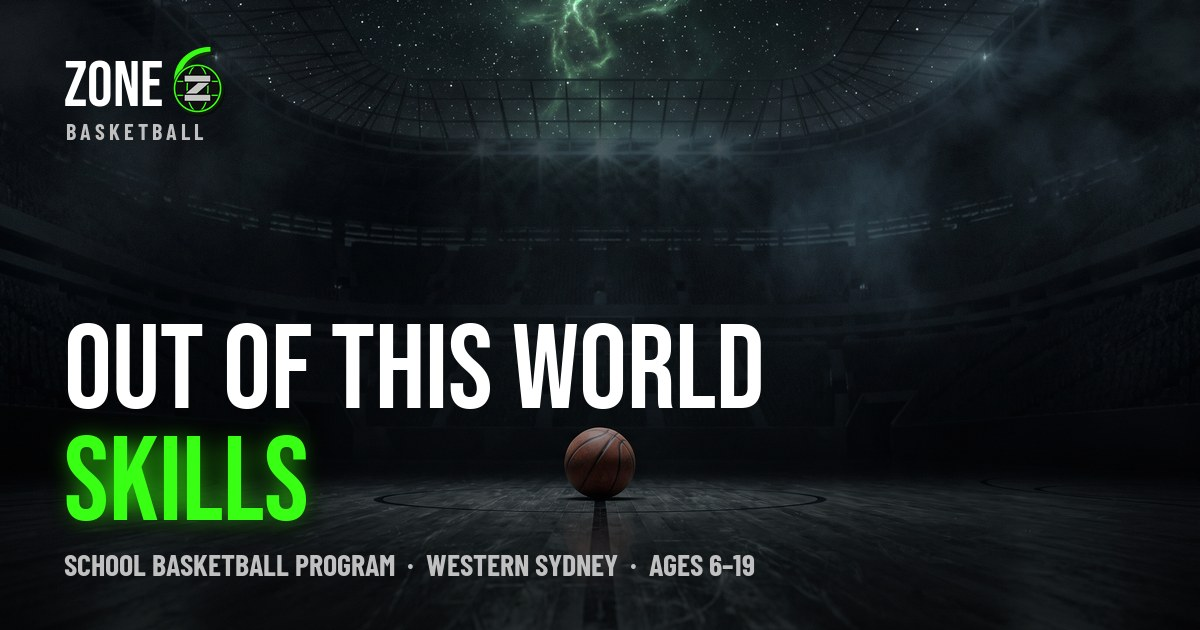
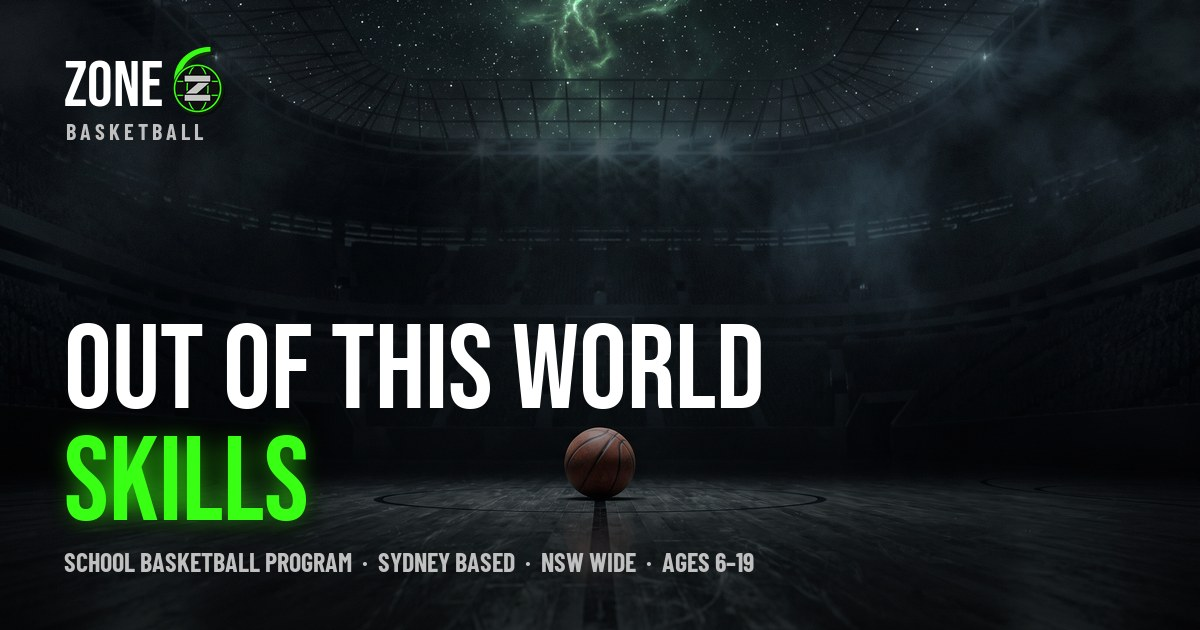
Bespoke card artwork, caps hero pitch, NSW-wide geography, filmstrip de-dupe
How To Get In cards now use unique Higgsfield artwork (floating gym,
comet ball, sun-flare hoop) instead of reused photos; hero pitch set in
condensed caps and tightened; geography corrected to Sydney based /
NSW wide across kicker, pitch, metas and share card; duplicate team
photo removed from the filmstrip (lives in Founder).

Changed region(s): [[0.0308, 0.8746, 0.6475, 0.9349]]

diff --git a/src/site/Schedule.jsx b/src/site/Schedule.jsx
@@ -3,17 +3,17 @@ import Badge from "../ds/Badge.jsx";
 import Card from "../ds/Card.jsx";
 import Button from "../ds/Button.jsx";
 import { setCta } from "../lib/scroll.js";
-import gumCoaching from "../assets/gum-coaching.jpg";
-import sideline from "../assets/sideline.jpg";
-import teamRedeyes from "../assets/team-redeyes.jpg";
+import cardSchools from "../assets/card-schools.jpg";
+import cardPlayers from "../assets/card-players.jpg";
+import cardHolidays from "../assets/card-holidays.jpg";
 
 // Schedule — how it works + where we play. Two paths: school programs and open sessions.
-// Each card leads with a real coaching photo fading into the card surface.
+// Each card leads with bespoke Zone6-universe artwork fading into the card surface.
 export default function Schedule({ onNav }) {
   const cards = [
-    { tag:"For Schools", emoji:"🏫", img:gumCoaching, pos:"50% 30%", title:"School Programs", body:"We run weekly basketball development inside your school — curriculum-aligned, fully coached, all equipment supplied. Term bookings now open.", cta:"Book a School Program", to:"register" },
-    { tag:"For Players", emoji:"🏀", img:sideline, pos:"50% 40%", title:"Open Sessions", body:"Weekend and after-school sessions for individual players. Drop into your age group, train with pros, and bring a friend.", cta:"Join a Session", to:"register" },
-    { tag:"School Holidays", emoji:"☀", img:teamRedeyes, pos:"50% 25%", title:"Holiday Camps", body:"Full-day camps across the holidays — skills, games, guest pros and a whole lot of energy. Spots are limited.", cta:"Reserve a Spot", to:"register" },
+    { tag:"For Schools", emoji:"🏫", img:cardSchools, pos:"50% 50%", title:"School Programs", body:"We run weekly basketball development inside your school — curriculum-aligned, fully coached, all equipment supplied. Term bookings now open.", cta:"Book a School Program", to:"register" },
+    { tag:"For Players", emoji:"🏀", img:cardPlayers, pos:"50% 50%", title:"Open Sessions", body:"Weekend and after-school sessions for individual players. Drop into your age group, train with pros, and bring a friend.", cta:"Join a Session", to:"register" },
+    { tag:"School Holidays", emoji:"☀", img:cardHolidays, pos:"50% 45%", title:"Holiday Camps", body:"Full-day camps across the holidays — skills, games, guest pros and a whole lot of energy. Spots are limited.", cta:"Reserve a Spot", to:"register" },
   ];
   return (
     <section id="schedule" style={{ padding:"76px 32px", scrollMarginTop:"80px" }}>
@@ -27,8 +27,8 @@ export default function Schedule({ onNav }) {
         <div style={{ display:"grid", gridTemplateColumns:"repeat(auto-fit, minmax(280px,1fr))", gap:24 }}>
           {cards.map((c) => (
             <Card key={c.title} interactive padding="0" style={{ display:"flex", flexDirection:"column", overflow:"hidden" }}>
-              <div style={{ position:"relative", height:158, flex:"none" }}>
-                <img src={c.img} alt={c.title} style={{ position:"absolute", inset:0, width:"100%", height:"100%",
+              <div style={{ position:"relative", height:172, flex:"none" }}>
+                <img src={c.img} alt="" aria-hidden="true" style={{ position:"absolute", inset:0, width:"100%", height:"100%",
                   objectFit:"cover", objectPosition:c.pos }} />
                 <div aria-hidden="true" style={{ position:"absolute", inset:0,
                   background:"linear-gradient(180deg, rgba(26,26,26,0.05) 35%, rgba(26,26,26,0.55) 75%, var(--surface-card) 100%)" }}></div>

diff --git a/index.html b/index.html
@@ -4,20 +4,20 @@
 <meta charset="utf-8">
 <meta name="viewport" content="width=device-width, initial-scale=1">
 <title>ZONE6 BASKETBALL — Out Of This World Skills</title>
-<meta name="description" content="Professional basketball development inside schools across Western Sydney, led by NBL1 pro Gum Majak. Ages 6–19 — book a school program or join a session.">
+<meta name="description" content="Professional basketball development in schools — Sydney based, NSW wide. Led by NBL1 pro Gum Majak. Ages 6–19 — book a school program or join a session.">
 <link rel="icon" type="image/png" href="./z6-mark-tight.png">
 <link rel="canonical" href="https://zone6basketball.com.au/">
 <meta property="og:type" content="website">
 <meta property="og:site_name" content="ZONE6 BASKETBALL">
 <meta property="og:title" content="ZONE6 BASKETBALL — OUT OF THIS WORLD SKILLS">
-<meta property="og:description" content="Professional basketball development inside schools across Western Sydney, led by NBL1 pro Gum Majak. Ages 6–19 — book a school program or join a session.">
+<meta property="og:description" content="Professional basketball development in schools — Sydney based, NSW wide. Led by NBL1 pro Gum Majak. Ages 6–19 — book a school program or join a session.">
 <meta property="og:url" content="https://zone6basketball.com.au/">
 <meta property="og:image" content="https://zone6basketball.com.au/og-image.jpg">
 <meta property="og:image:width" content="1200">
 <meta property="og:image:height" content="630">
 <meta name="twitter:card" content="summary_large_image">
 <meta name="twitter:title" content="ZONE6 BASKETBALL — OUT OF THIS WORLD SKILLS">
-<meta name="twitter:description" content="Professional basketball development inside schools across Western Sydney, led by NBL1 pro Gum Majak. Ages 6–19 — book a school program or join a session.">
+<meta name="twitter:description" content="Professional basketball development in schools — Sydney based, NSW wide. Led by NBL1 pro Gum Majak. Ages 6–19 — book a school program or join a session.">
 <meta name="twitter:image" content="https://zone6basketball.com.au/og-image.jpg">
 <link rel="preconnect" href="https://fonts.googleapis.com">
 <link rel="preconnect" href="https://fonts.gstatic.com" crossorigin>

diff --git a/src/site/Hero2.jsx b/src/site/Hero2.jsx
@@ -104,7 +104,7 @@ export default function Hero2({ onNav, go, motion = "bold" }) {
       </div>
 
       <div className="z6-hero2-inner" ref={typeRef}>
-        <p className="z6-cond z6-hero2-kicker">School basketball program<br />Western Sydney · Ages 6–19</p>
+        <p className="z6-cond z6-hero2-kicker">School basketball program<br />Sydney based · NSW wide · Ages 6–19</p>
         <h1 className={"z6-display z6-hero2-h" + (go ? " run" : "")}>
           <span className="z6-h2line" style={{ ["--d"]: "0ms" }}><span className="z6-outline">OUT&nbsp;OF&nbsp;THIS</span></span>
           <span className="z6-h2line" style={{ ["--d"]: "110ms" }}><span style={{ color: "var(--z6-white)" }}>WORLD</span></span>
@@ -112,11 +112,10 @@ export default function Hero2({ onNav, go, motion = "bold" }) {
         </h1>
         <div className={"z6-hero2-foot" + (go ? " run" : "")}>
           <p className="z6-hero2-sub">
-            <span className="z6-hero2-sub-lead">Professional basketball development, delivered
-            inside schools across Western Sydney.</span>{" "}
-            Led by NBL1 pro <strong className="z6-hero2-sub-name">Gum Majak</strong> — building
-            the skill, discipline and confidence to take the next generation from the court to
-            the stars.
+            <span className="z6-hero2-sub-lead">Professional basketball development in
+            schools — Sydney based, NSW wide.</span>{" "}
+            Led by NBL1 pro <strong className="z6-hero2-sub-name">Gum Majak</strong>.
+            Skill, discipline and confidence — from the court to the stars.
           </p>
           <div style={{ display: "flex", gap: 14, flexWrap: "wrap" }}>
             <Button size="lg" onClick={() => { setCta("Book a School Program (hero)"); onNav("register"); }}>Book a School Program</Button>

diff --git a/src/styles/site.css b/src/styles/site.css
@@ -146,10 +146,11 @@
   .z6-hero2-foot { display:flex; align-items:flex-end; justify-content:space-between; gap:28px; flex-wrap:wrap;
     padding-bottom:clamp(44px,6vh,72px); transform:translateY(22px); transition:transform 0.75s var(--ease-out) 0.3s; }
   .z6-hero2-foot.run { transform:none; }
-  .z6-hero2-sub { font-size:19px; line-height:1.6; color:var(--text-secondary); max-width:520px; margin:0;
+  .z6-hero2-sub { font-family:var(--font-condensed); text-transform:uppercase; letter-spacing:0.06em;
+    font-weight:600; font-size:21px; line-height:1.42; color:var(--text-secondary); max-width:540px; margin:0;
     padding-left:18px; border-left:2px solid var(--z6-green);
     box-shadow:-8px 0 22px -10px rgba(57,255,20,0.6); }
-  .z6-hero2-sub-lead { color:var(--z6-white); font-weight:600; }
+  .z6-hero2-sub-lead { color:var(--z6-white); font-weight:700; }
   .z6-hero2-sub-name { color:var(--z6-green); font-weight:700; text-shadow:var(--glow-text-green); }
   /* plain-English kicker above the headline — mobile only (owner request) */
   .z6-hero2-kicker { display:none; }
@@ -308,7 +309,7 @@
     .z6-hero2-foot { padding-bottom:34px; }
     .z6-hero2-kicker { display:block; font-weight:700; font-size:13px; letter-spacing:0.16em;
       text-transform:uppercase; color:var(--z6-green); text-shadow:var(--glow-text-green); margin:0 0 16px; }
-    .z6-hero2-sub { font-size:17px; line-height:1.55; }
+    .z6-hero2-sub { font-size:18px; line-height:1.45; }
   }
   @media (prefers-reduced-motion: reduce) {
     .z6r, .z6-h2line, .z6-hero2-meta, .z6-hero2-foot { transform:none !important; transition:none !important; }

diff --git a/src/site/Filmstrip.jsx b/src/site/Filmstrip.jsx
@@ -5,16 +5,15 @@ import gumCoaching from "../assets/gum-coaching.jpg";
 import coachHuddle from "../assets/coach-huddle.jpg";
 import teamRedeyes from "../assets/team-redeyes.jpg";
 import sideline from "../assets/sideline.jpg";
-import reddamTeam from "../assets/reddam-team.jpg";
 
 // Filmstrip — horizontal scroll-snap strip of court photos.
+// (The team photo lives in the Founder section — not repeated here.)
 export default function Filmstrip() {
   const slots = [
     { id: "g1", src: gumCoaching, ph: "Coaching session", cap: "COACHING" },
     { id: "g2", src: coachHuddle, ph: "Talking it through", cap: "THE HUDDLE" },
     { id: "g3", src: teamRedeyes, ph: "The squad", cap: "THE SQUAD" },
     { id: "g4", src: sideline, ph: "Game day", cap: "GAME DAY" },
-    { id: "g5", src: reddamTeam, ph: "Team photo", cap: "TEAM" },
   ];
   const ref = React.useRef(null);
   const nudge = (dir) => {
